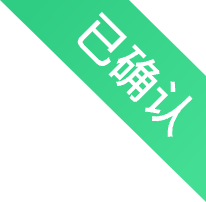
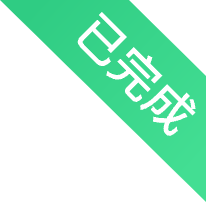
修改字段

Changed region(s): [[0.4951, 0.2079, 0.9612, 0.6832]]

diff --git a/components.d.ts b/components.d.ts
@@ -40,7 +40,6 @@ declare module '@vue/runtime-core' {
     RouterLink: typeof import('vue-router')['RouterLink']
     RouterView: typeof import('vue-router')['RouterView']
     Service: typeof import('./src/components/service/index.vue')['default']
-    ServiceService: typeof import('./src/components/service/service.vue')['default']
     SvgIcon: typeof import('./src/components/SvgIcon.vue')['default']
     Tabbar: typeof import('./src/components/Tabbar.vue')['default']
     VanActionSheet: typeof import('vant/es')['ActionSheet']

diff --git a/src/main.ts b/src/main.ts
@@ -25,7 +25,7 @@ app.use(Lazyload, {
 app.config.globalProperties.$t = i18n.global.t;
 app.use(i18n)
 import vConsole from 'vconsole'
-const vconsole = new vConsole()
+// const vconsole = new vConsole()
 setupVant(app)
 setupStore(app)
 app.use(router)

diff --git a/src/components/order/businessOrder/offlineOrder.vue b/src/components/order/businessOrder/offlineOrder.vue
@@ -101,7 +101,7 @@ const items = [
     value: 1,
   },
   {
-    title: t("myOrder.confirmed"),
+    title: t("myOrder.completed"),
     value: 2,
   },
   // {

diff --git a/src/components/order/businessOrder/onlineOrder.vue b/src/components/order/businessOrder/onlineOrder.vue
@@ -101,7 +101,7 @@ const items = [
     value: 4,
   },
   {
-    title: t("myOrder.confirmed"),
+    title: t("myOrder.completed"),
     value: 2,
   },
   // {

diff --git a/src/components/order/myOrder/components/offlineOrder.vue b/src/components/order/myOrder/components/offlineOrder.vue
@@ -101,7 +101,7 @@ const items = [
     value: 1,
   },
   {
-    title: t("myOrder.confirmed"),
+    title: t("myOrder.completed"),
     value: 2,
   },
   {

diff --git a/src/components/order/myOrder/components/onlineOrder.vue b/src/components/order/myOrder/components/onlineOrder.vue
@@ -100,7 +100,7 @@ const items = [
     value: 4,
   },
   {
-    title: t("myOrder.confirmed"),
+    title: t("myOrder.completed"),
     value: 2,
   },
   {
